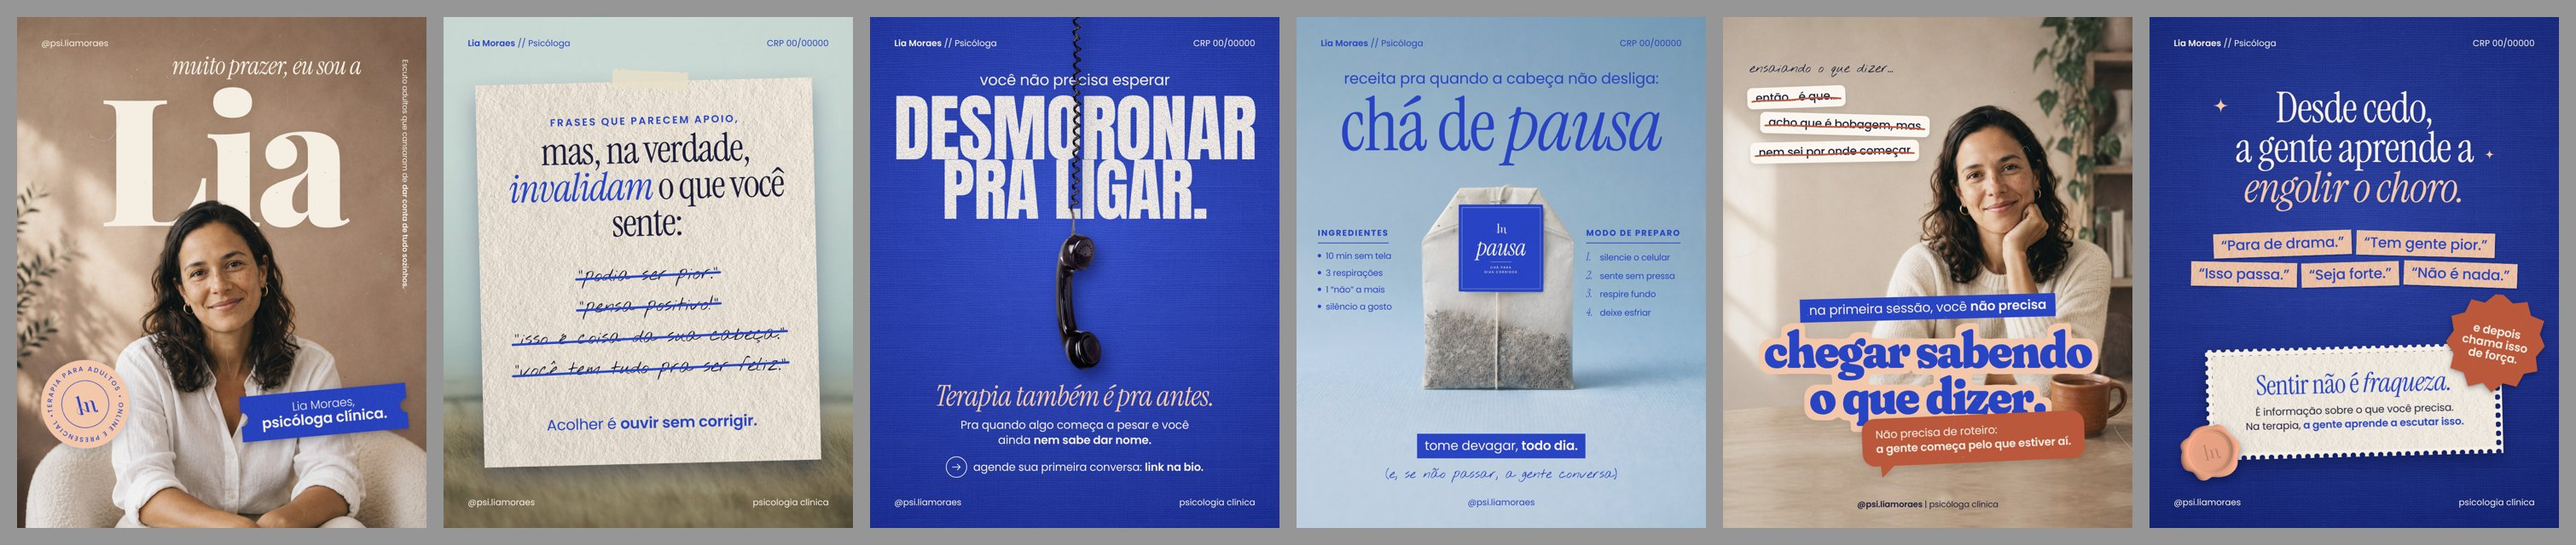
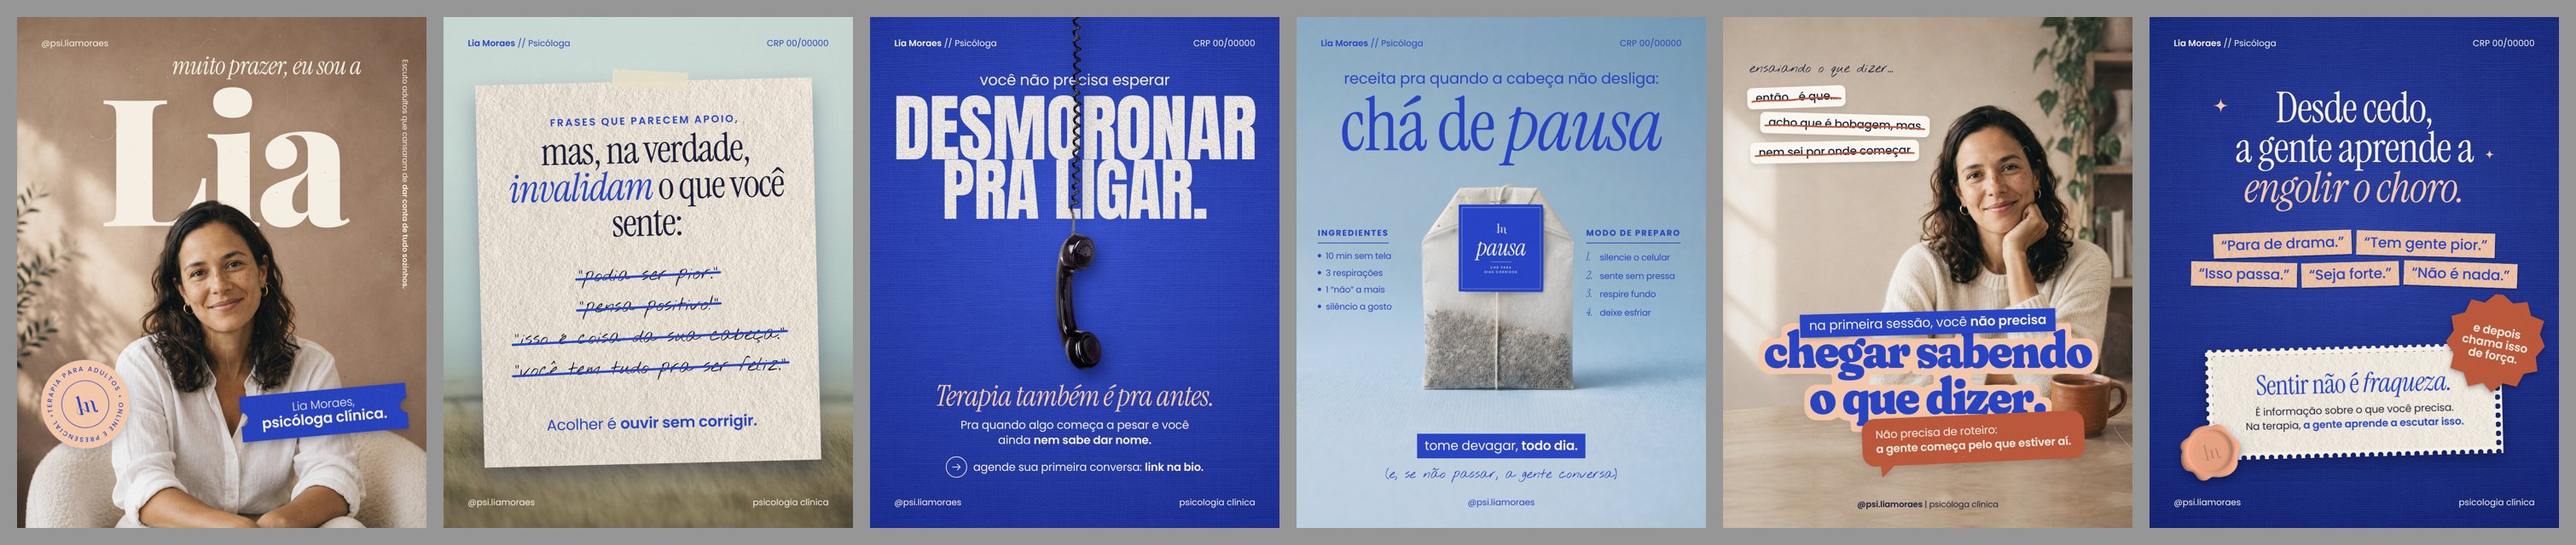
Lia Moraes: post 5 com a faixa azul encostando no título
Claude-Session: https://claude.ai/code/session_01CmCiK8Gv7bd1khyaxwEQLc

Changed region(s): [[0.6848, 0.5312, 0.8093, 0.625]]

diff --git a/psicologa-lia-moraes/projeto/posts/posts-v5.html b/psicologa-lia-moraes/projeto/posts/posts-v5.html
@@ -225,7 +225,7 @@ body{background:#777;padding:20px;display:flex;gap:20px;flex-wrap:wrap}
     <div style="margin-top:16px;margin-left:8px"><span class="rasc" style="transform:rotate(-1deg)">nem sei por onde começar</span></div>
   </div>
   <div class="abs" style="left:0;right:0;top:738px;text-align:center;z-index:5">
-    <div style="display:inline-block;background:#2742C2;color:#F5EEE3;font:400 34px/1 Poppins;letter-spacing:-.01em;padding:12px 24px 15px;transform:rotate(-1.5deg)">na primeira sessão, você <b style="font-weight:600">não precisa</b></div>
+    <div style="display:inline-block;background:#2742C2;color:#F5EEE3;font:400 34px/1 Poppins;letter-spacing:-.01em;padding:12px 24px 15px;position:relative;z-index:2;transform:translateY(40px) rotate(-1.5deg);box-shadow:0 6px 12px rgba(20,25,70,.18)">na primeira sessão, você <b style="font-weight:600">não precisa</b></div>
     <div class="fr" style="font-size:136px;line-height:.9;color:#2742C2;margin-top:18px;filter:url(#adesivo) drop-shadow(0 8px 12px rgba(40,30,20,.18))">chegar sabendo<br>o que dizer.</div>
     <div style="display:inline-block;margin-top:-6px;transform:rotate(-2.5deg) translateX(120px);filter:drop-shadow(0 8px 12px rgba(60,25,10,.2))">
       <div class="balao-fala" style="padding:24px 36px 27px;text-align:left">
